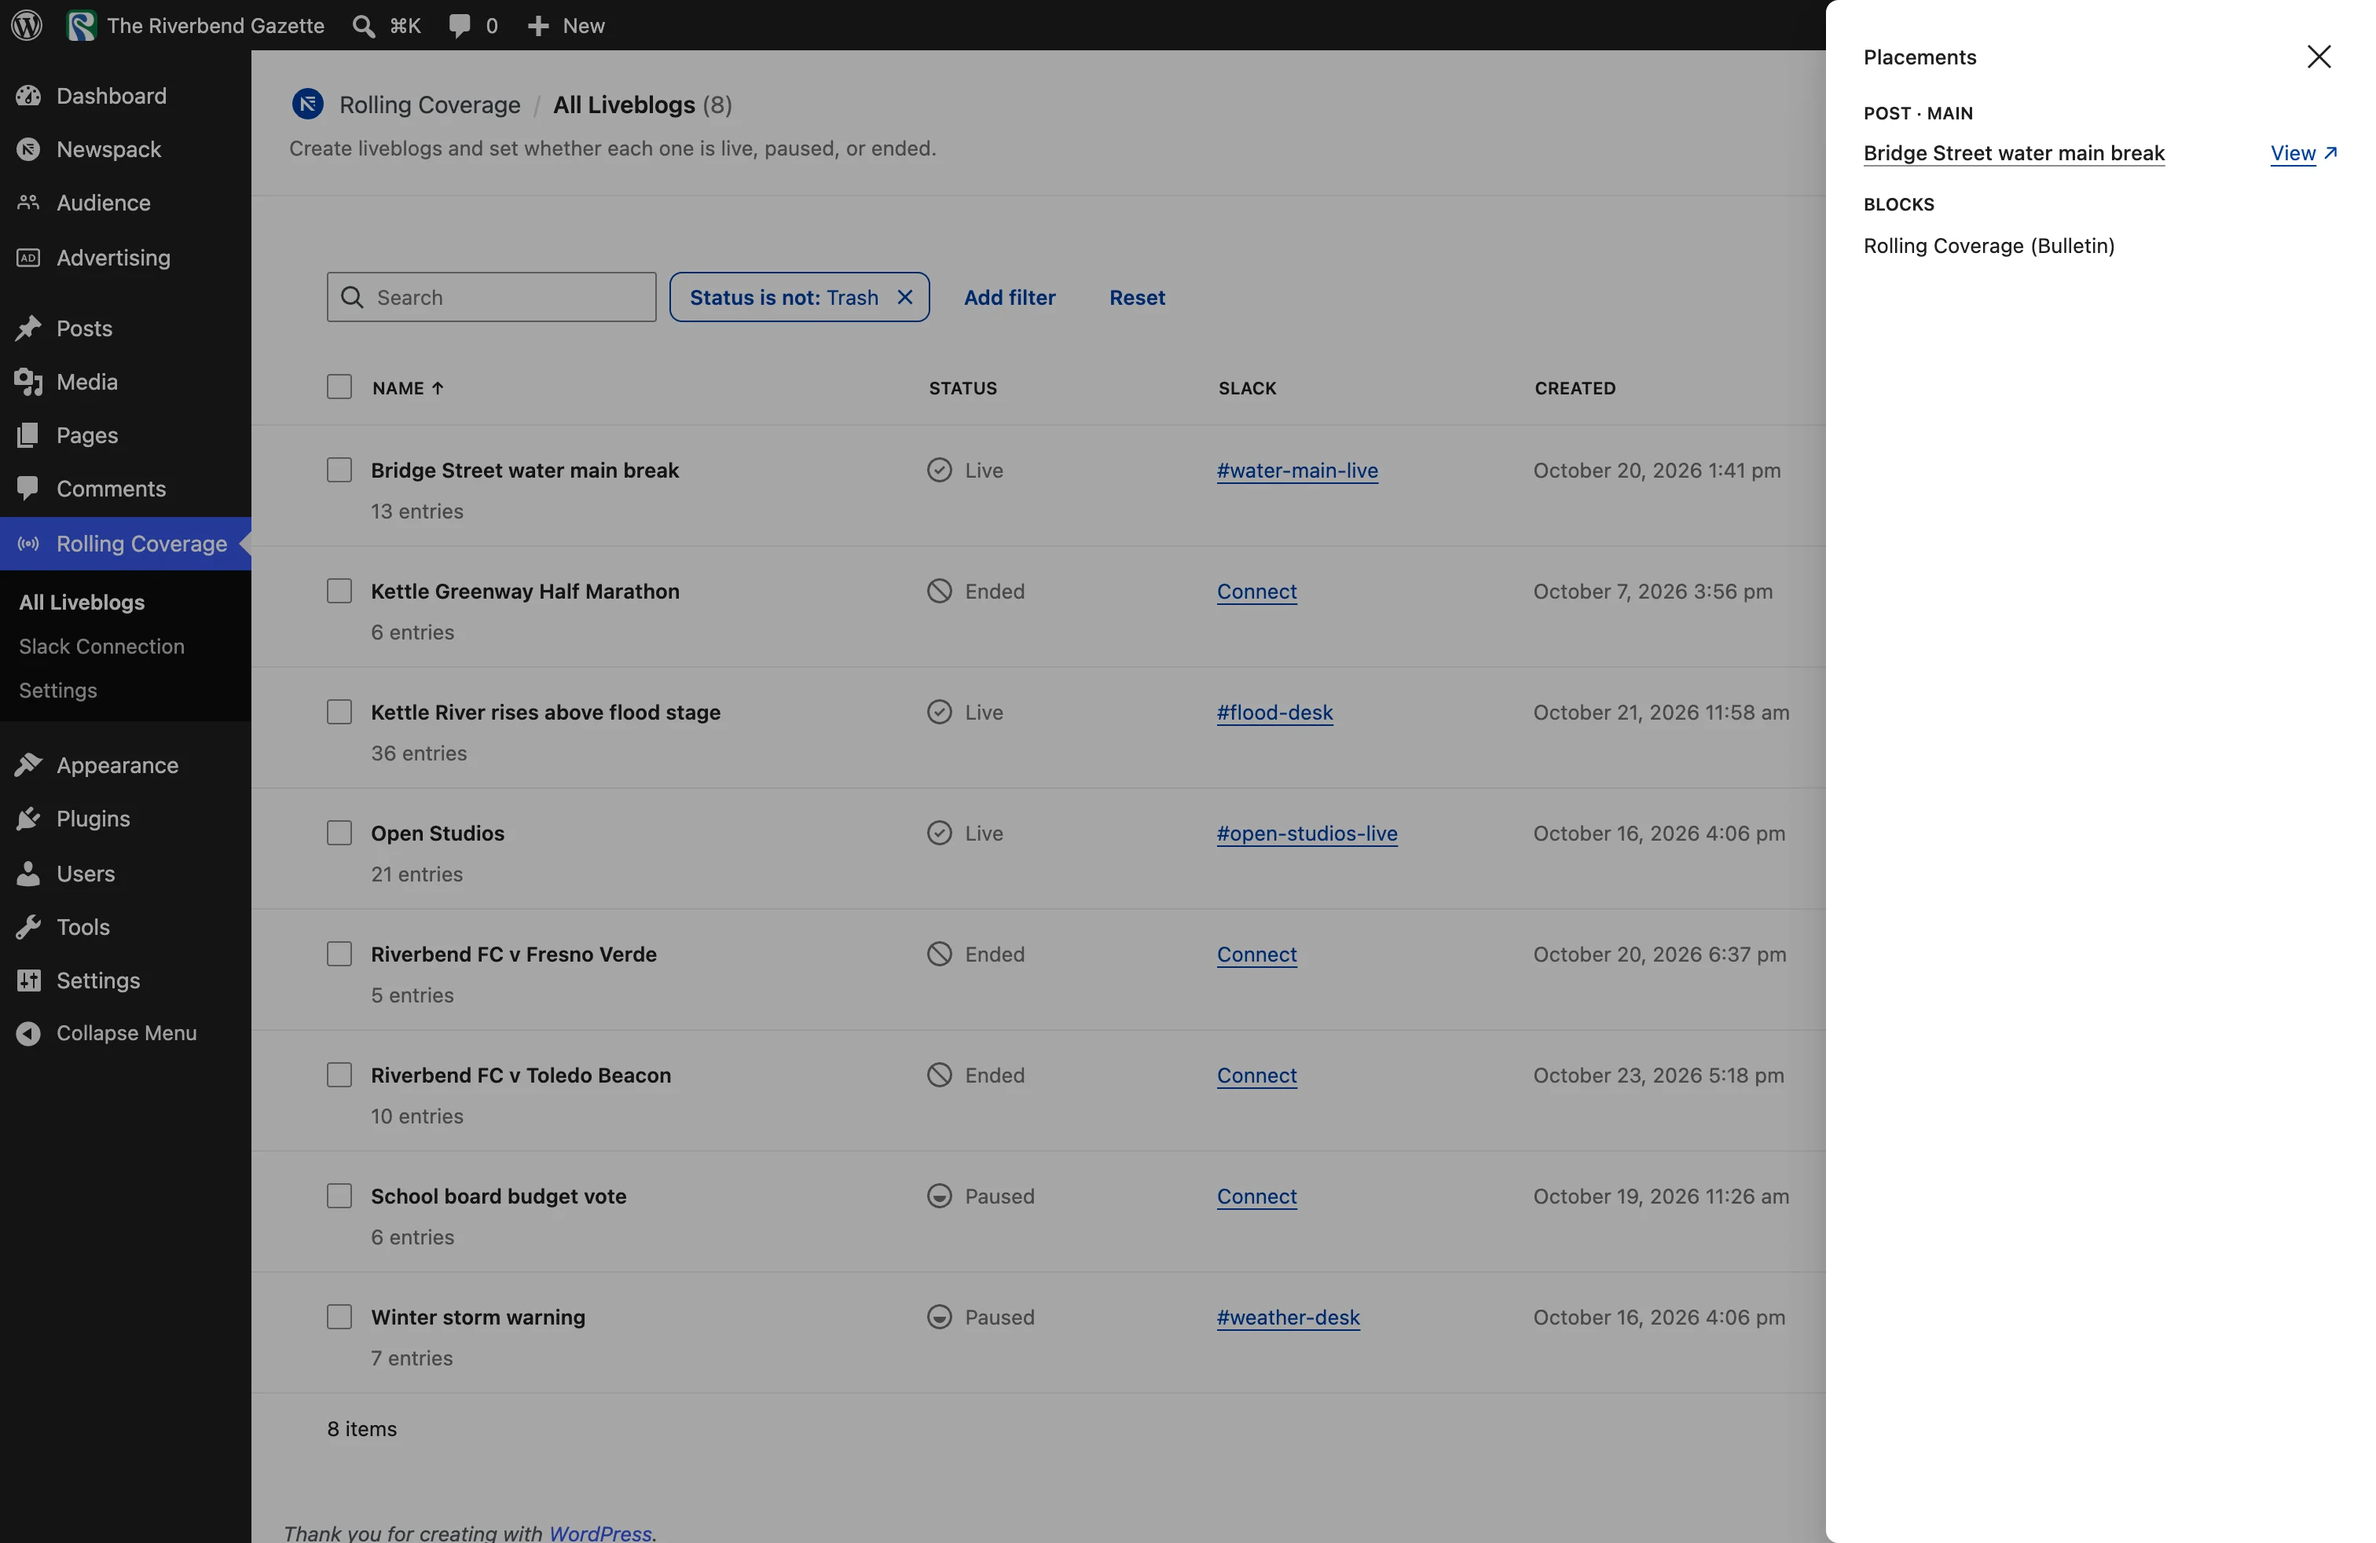
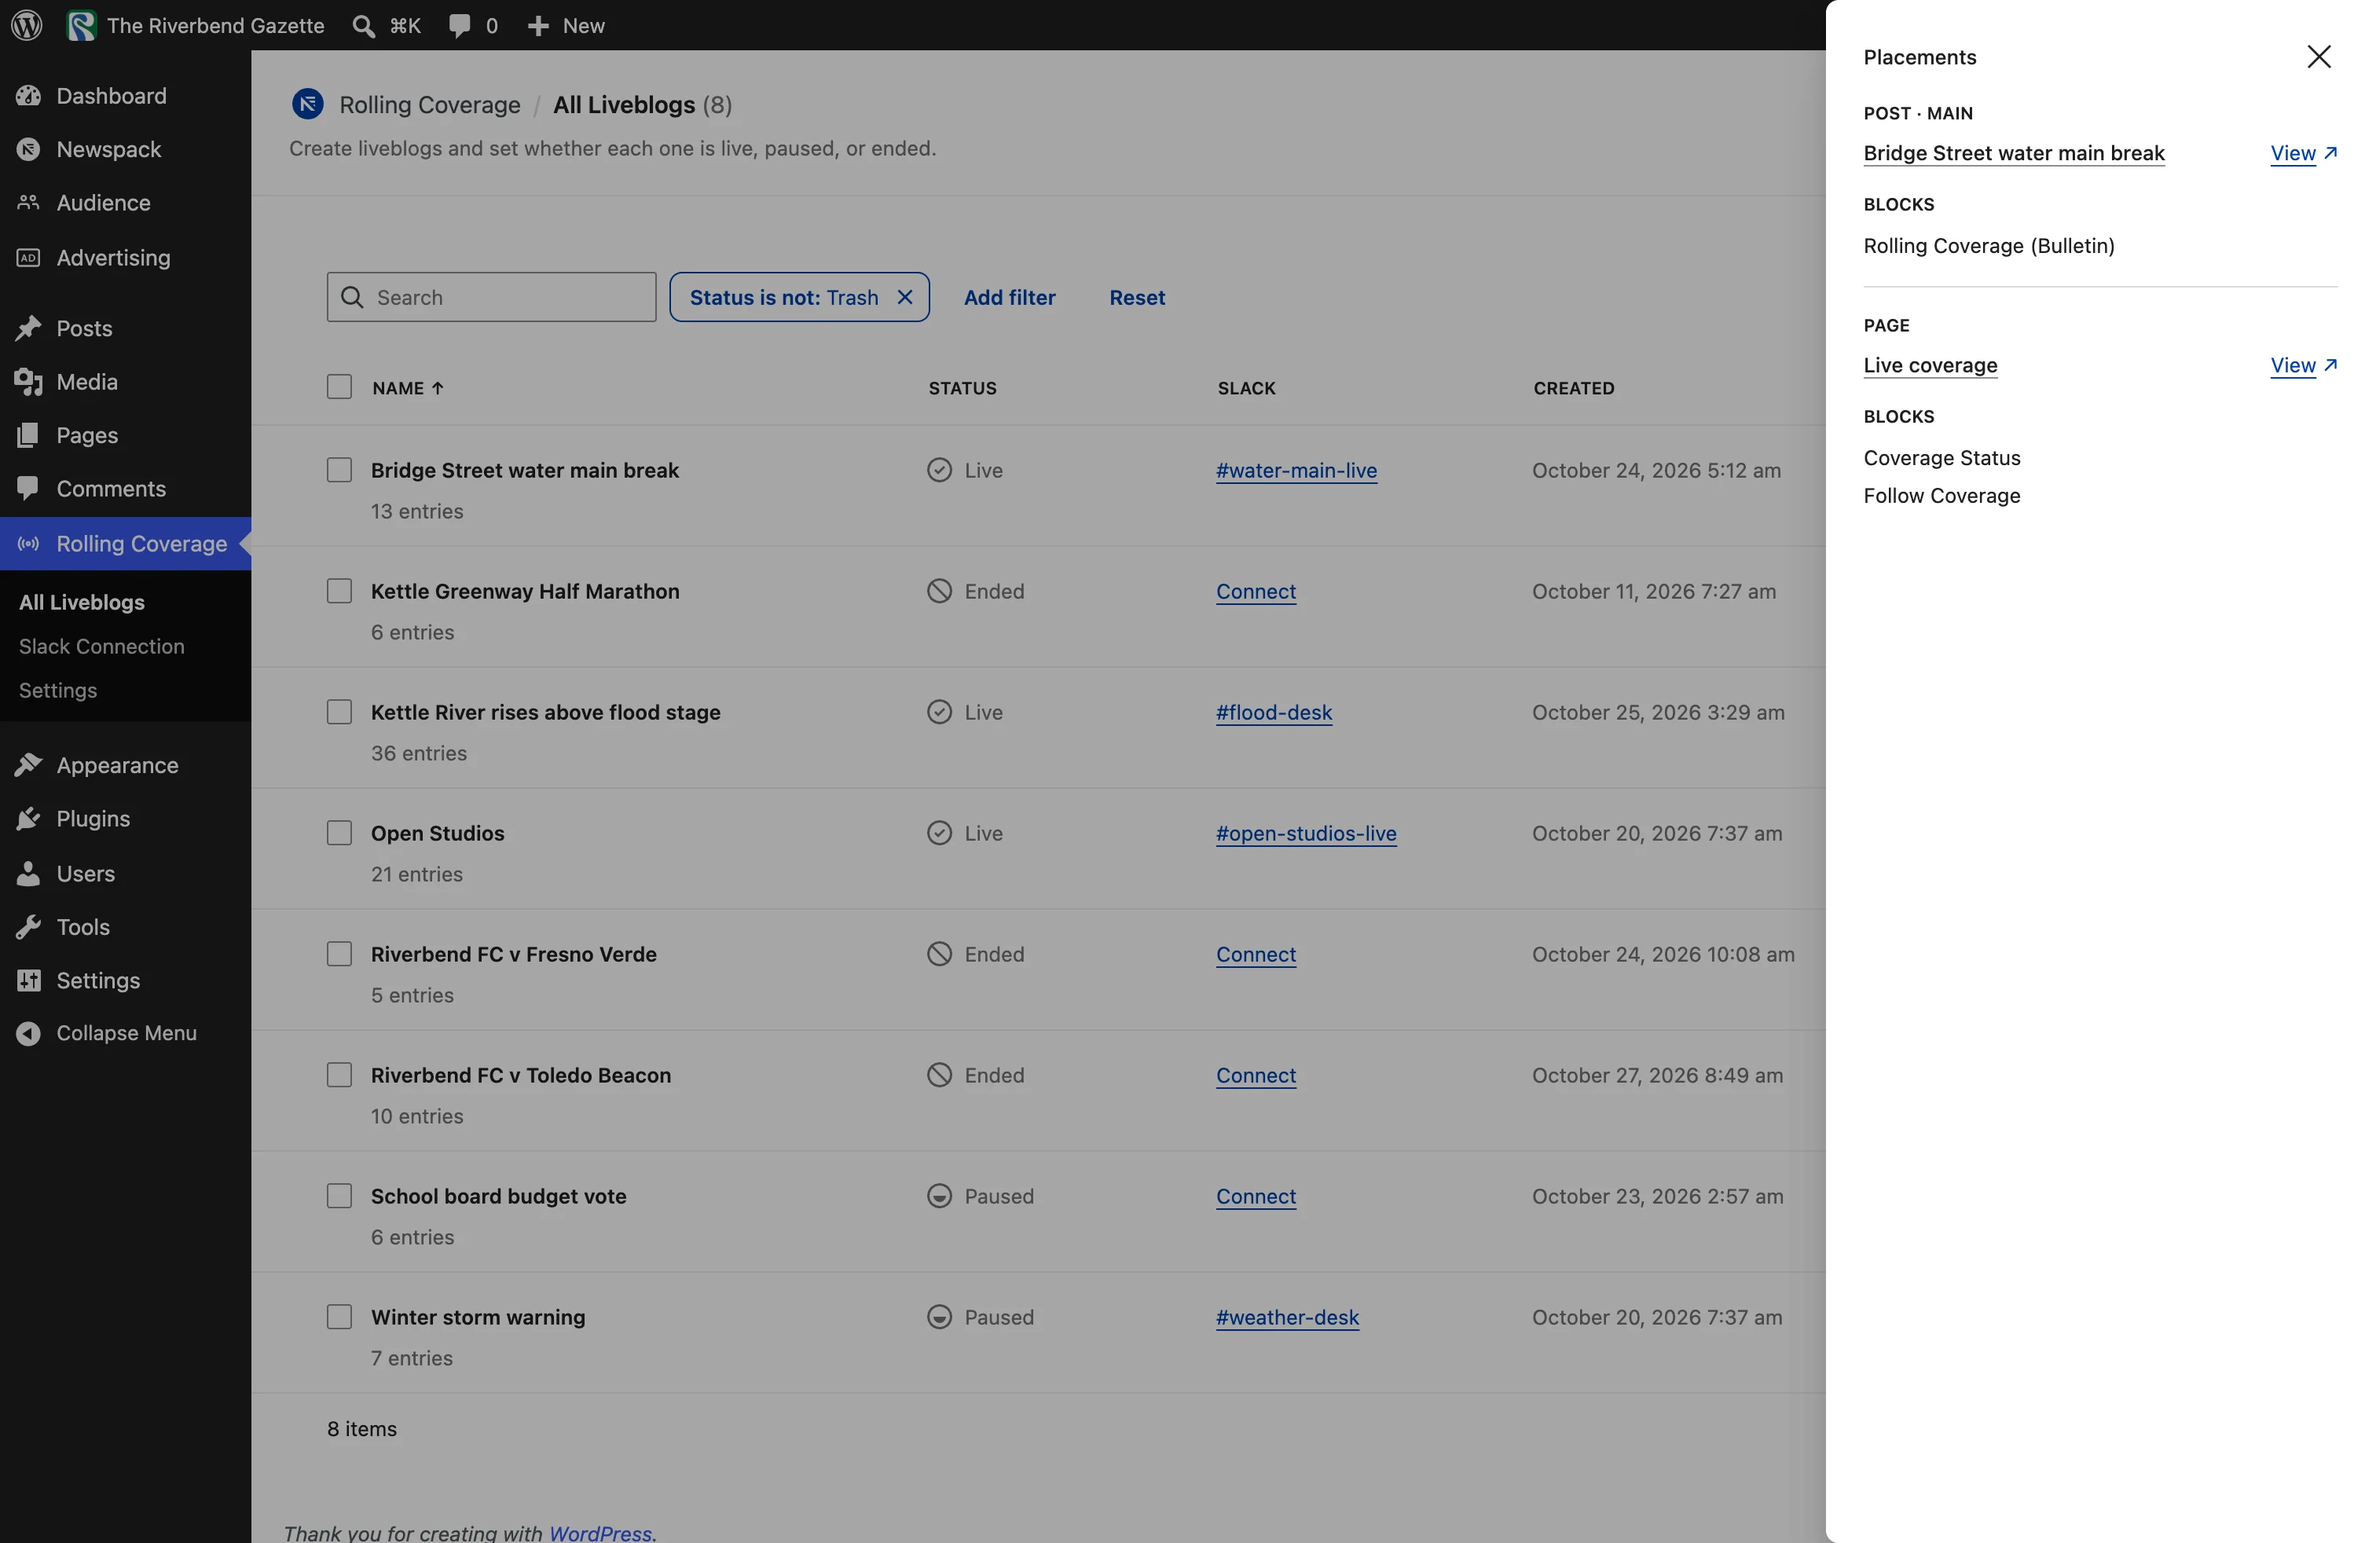
docs(site): retake captures that list the pattern pages

diff --git a/site/screenshots/SHOTS.md b/site/screenshots/SHOTS.md
@@ -105,7 +105,7 @@ Setup and cleanup steps run with WP-CLI on the screenshot site. After any shot w
 | `guides/summary-2.webp` | The Add Summary editor over the list, with the title What we know and four bullet points written | `npm run shot -- guides/summary-2 --site <site> --now --url "wp-admin/admin.php?page=rolling-coverage" --click 'text=Kettle River rises above flood stage' --click 'button[aria-label="More actions"]' --click 'button[role="menuitem"]:has-text("Add Summary")' --wait 1000 --fill '[aria-label="Add title"]' --value 'What we know' --click '[aria-label*="Add default block"], [data-type="core/paragraph"], .block-editor-default-block-appender' --press Minus --press Space --eval '(() => { const e = document.querySelector("[data-type=\"core/list-item\"] [contenteditable=true]"); if (!e) return; e.focus(); const dt = new DataTransfer(); dt.setData("text/plain", "The Kettle River passed flood stage at Bridge Street and is at 19.8 feet.\nThe Mill Road bridge and River Road are closed.\nShelters are open at Riverbend High School and the Grange Hall.\nOfficials urge people to stay off flooded roads."); e.dispatchEvent(new ClipboardEvent("paste", { clipboardData: dt, bubbles: true, cancelable: true })); })()' --wait 800` (nothing is saved. `-` and a space start the bulleted list, and the `--eval` pastes the four points as four list items) | Before: trash the seeded summary (`wp post list --post_type=rolling_cov_entry --rolling_coverage_summary=only --format=ids`, then `wp post delete <id>`). Afterwards, reseed. |
 | `guides/summary-3.webp` | The entries list with the summary first, its Summary label picked out | `npm run shot -- guides/summary-3 --site <site> --now --url "wp-admin/admin.php?page=rolling-coverage" --click 'text=Kettle River rises above flood stage' --spotlight 'tr:has-text("What we know") .components-badge, tr:has-text("What we know") [class*="badge"]'` | None |
 | `guides/summary-4.webp` | The Kettle River flood page, with the What we know box at the top of the liveblog | `npm run shot -- guides/summary-4 --site <site> --now --url live-kettle-river-flood/ --logged-out` | None |
-| `guides/placements-1.webp` | The Placements panel for a liveblog, showing its main page and the Rolling Coverage block on it | `npm run shot -- guides/placements-1 --site <site> --now --url "wp-admin/admin.php?page=rolling-coverage" --click 'tr:has-text("Bridge Street water main break") button[aria-label="Actions"]' --click 'div[role="menuitem"]:has-text("Placements")'` | None |
+| `guides/placements-1.webp` | The Placements panel for a liveblog, showing its main page with the Rolling Coverage block on it, and the Live coverage page with a Coverage Status and a Follow Coverage block | `npm run shot -- guides/placements-1 --site <site> --now --url "wp-admin/admin.php?page=rolling-coverage" --click 'tr:has-text("Bridge Street water main break") button[aria-label="Actions"]' --click 'div[role="menuitem"]:has-text("Placements")'` | None |
 | `guides/push-1.webp` | A liveblog page in the editor, with the Follow Coverage block selected on the same line as the Live badge | `npm run shot -- guides/push-1 --site <site> --now --url "wp-admin/edit.php?post_type=page&post_status=draft" --click 'a.row-title >> text="Kettle River flood"' --eval 'window.wp && wp.data.dispatch("core/block-editor").selectBlock(wp.data.select("core/block-editor").getBlocksByName("newspack-rolling-coverage/coverage-follow")[0])'` | None. The `--eval` selects the Follow Coverage block itself: a click on it lands on its inner Buttons or Button block |
 | `guides/push-2.webp` | The entry editor sidebar, with the notify option ticked in the Push Notifications panel | `npm run shot -- guides/push-2 --site <site> --now --url "wp-admin/admin.php?page=rolling-coverage" --click 'tr:has-text("Kettle River rises above flood stage") button[aria-label="Actions"]' --click 'div[role="menuitem"]:has-text("Entries")' --fill 'input[type="search"]' --value 'Clean-up starts on Water Street' --eval 'window.open = ( url ) => { window.location.href = url; }' --click 'tr:has-text("Clean-up starts on Water Street") button[aria-label="Actions"]' --click 'div[role="menuitem"]:has(:text-is("Edit"))' --wait 2000 --eval 'const t = [ ...document.querySelectorAll( "button.components-panel__body-toggle" ) ].find( ( b ) => b.textContent.includes( "Push Notifications" ) ); if ( t && t.getAttribute( "aria-expanded" ) === "false" ) { t.click(); }' --click 'internal:label="Notify subscribers when this entry publishes"s' --click 'text=Last edited'` | None. The entry's Edit action opens a new tab, so `--eval` makes it open in the same tab. The notify option is ticked but not saved. |
 | `guides/settings-1.webp` | The Rolling Coverage Settings page on the General tab, with the Entry Name, Jump to Latest, Full Story, and Coverage Status sections | `npm run shot -- guides/settings-1 --site <site> --now --url "wp-admin/admin.php?page=rolling-coverage-settings"` | None |
